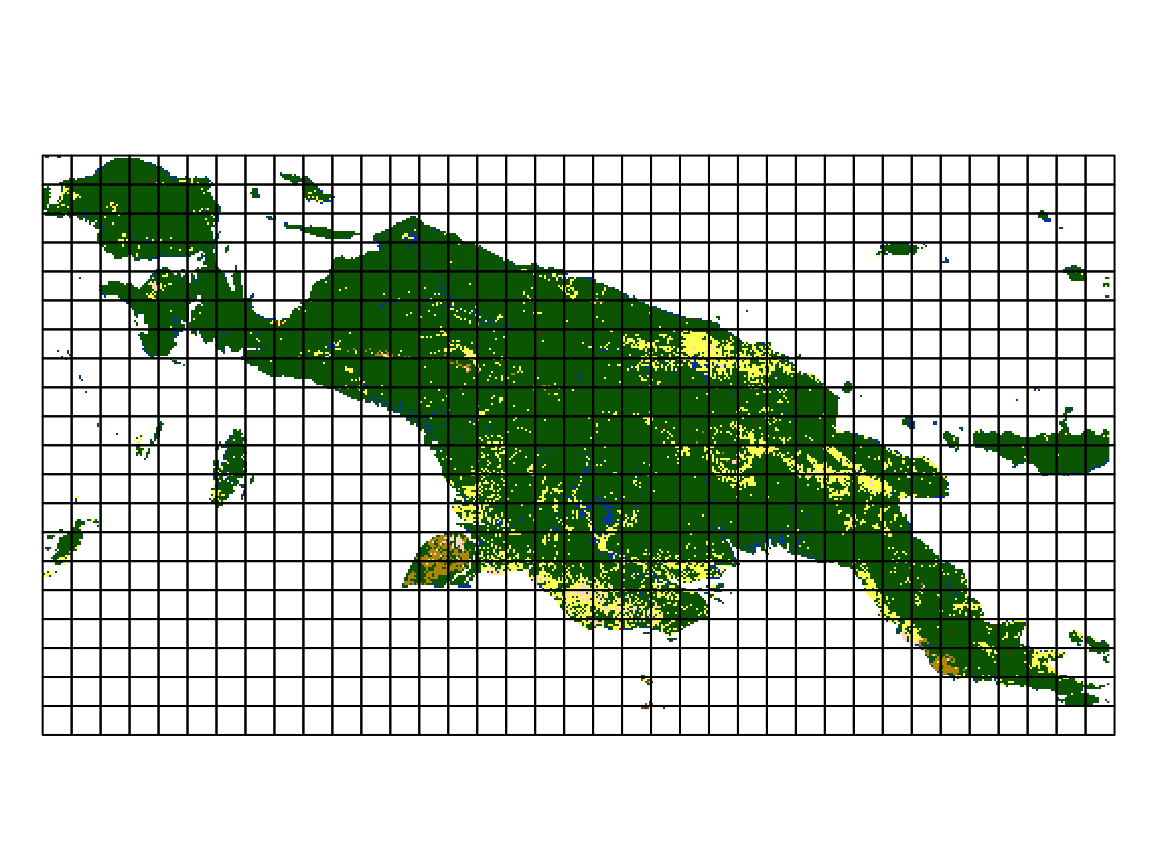
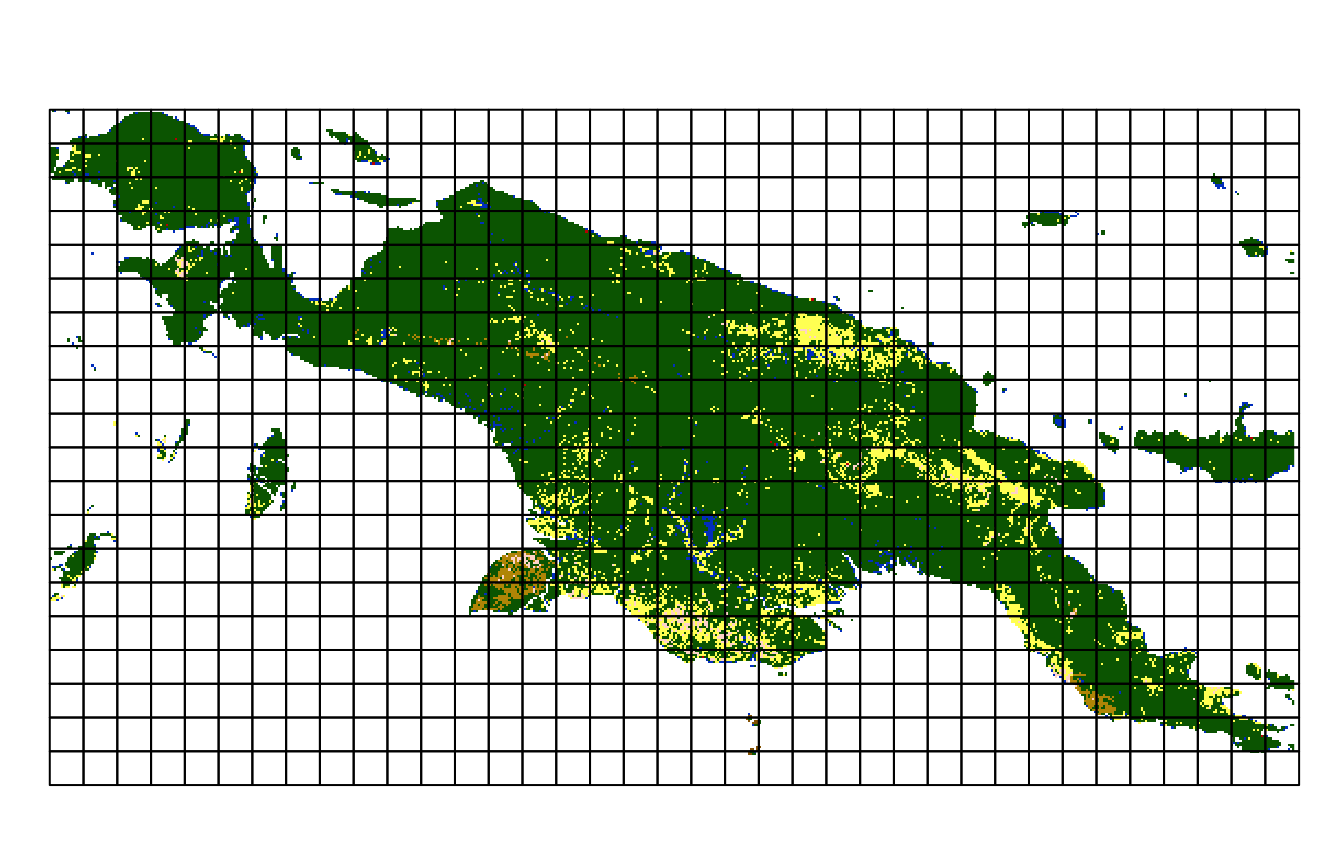
Built site for motif: 0.3.2@3800db7

Changed region(s): [[0.0312, 0.1249, 0.9688, 0.9052]]

diff --git a/articles/intro.html b/articles/intro.html
@@ -104,22 +104,25 @@
 
     
     
-<div class="sourceCode" id="cb1"><html><body><pre class="r"><span class="fu"><a href="https://rdrr.io/r/base/library.html">library</a></span>(<span class="no">motif</span>)</pre></body></html></div>
+<p>The <strong>motif</strong> package implements ideas of the pattern-based spatial analysis in R. It describes spatial patterns of categorical raster data for any defined regular and irregular areas. Patterns are represented quantitatively using built-in signatures based on co-occurrence matrices but also allows for any user-defined functions. It enables spatial analysis such as search, change detection, and clustering to be performed on spatial patterns.</p>
 <p>The <strong>motif</strong> package works on raster data represented by <code>stars</code> objects. It has several example datasets, including <code>"raster/landcover2015.tif"</code>. This file contains a land cover data for New Guinea, with seven possible categories: (1) agriculture, (2) forest, (3) grassland, (5) settlement, (6) shrubland, (7) sparse vegetation, and (9) water.</p>
-<div class="sourceCode" id="cb2"><html><body><pre class="r"><span class="fu"><a href="https://rdrr.io/r/base/library.html">library</a></span>(<span class="no">motif</span>)
+<div class="sourceCode" id="cb1"><html><body><pre class="r"><span class="fu"><a href="https://rdrr.io/r/base/library.html">library</a></span>(<span class="no">motif</span>)
 <span class="fu"><a href="https://rdrr.io/r/base/library.html">library</a></span>(<span class="no">stars</span>)
 <span class="co">#&gt; Loading required package: abind</span>
 <span class="co">#&gt; Loading required package: sf</span>
 <span class="co">#&gt; Linking to GEOS 3.8.1, GDAL 2.4.4, PROJ 7.0.0</span>
 <span class="fu"><a href="https://rdrr.io/r/base/library.html">library</a></span>(<span class="no">sf</span>)
 <span class="no">landcover</span> <span class="kw">=</span> <span class="fu"><a href="https://rdrr.io/pkg/stars/man/read_stars.html">read_stars</a></span>(<span class="fu"><a href="https://rdrr.io/r/base/system.file.html">system.file</a></span>(<span class="st">"raster/landcover2015.tif"</span>, <span class="kw">package</span> <span class="kw">=</span> <span class="st">"motif"</span>))</pre></body></html></div>
-<p><img src="intro_files/figure-html/unnamed-chunk-3-1.png" width="576"></p>
+<p><img src="intro_files/figure-html/unnamed-chunk-3-1.png" width="672"></p>
 <div id="signatures" class="section level2">
 <h2 class="hasAnchor">
 <a href="#signatures" class="anchor"></a>Signatures</h2>
+<div id="whole-area" class="section level3">
+<h3 class="hasAnchor">
+<a href="#whole-area" class="anchor"></a>Whole area</h3>
 <p>We can see that most of the island is covered by forest, with some agriculture and smaller areas of the other classes. It is also reasonably easy to describe these proportions (so-called composition) numerically - we just need to count cells of each category for the whole data.</p>
 <p>We can use the <code><a href="../reference/lsp_thumbprint.html">lsp_thumbprint()</a></code> function for this. It requires a <code>stars</code> object as the first input and the type of a signature to calculate - <code>"composition"</code> in this case. There are also several additional arguments, including <code>threshold</code> - a share (between 0 and 1) of NA cells to allow signature calculation and <code>normalization</code> - decision if the output vector should be normalized.</p>
-<div class="sourceCode" id="cb3"><html><body><pre class="r"><span class="no">landcover_comp</span> <span class="kw">=</span> <span class="fu"><a href="../reference/lsp_thumbprint.html">lsp_thumbprint</a></span>(<span class="no">landcover</span>,
+<div class="sourceCode" id="cb2"><html><body><pre class="r"><span class="no">landcover_comp</span> <span class="kw">=</span> <span class="fu"><a href="../reference/lsp_thumbprint.html">lsp_thumbprint</a></span>(<span class="no">landcover</span>,
                                 <span class="kw">type</span> <span class="kw">=</span> <span class="st">"composition"</span>,
                                 <span class="kw">threshold</span> <span class="kw">=</span> <span class="fl">1</span>,
                                 <span class="kw">normalization</span> <span class="kw">=</span> <span class="st">"none"</span>)
@@ -128,7 +131,7 @@
 <span class="co">#&gt;      id na_prop signature        </span>
 <span class="co">#&gt; * &lt;int&gt;   &lt;dbl&gt; &lt;list&gt;           </span>
 <span class="co">#&gt; 1     1   0.666 &lt;int[,7] [1 × 7]&gt;</span></pre></body></html></div>
-<p>The output of <code><a href="../reference/lsp_thumbprint.html">lsp_thumbprint()</a></code> has a new class <code>lsp</code>. It is a tibble with three columns:</p>
+<p>The output of <code><a href="../reference/lsp_thumbprint.html">lsp_thumbprint()</a></code>, <code>landcover_comp</code>, has a new class <code>lsp</code>. It is a tibble with three columns:</p>
 <ul>
 <li>
 <code>id</code> - an id of each window (area)</li>
@@ -138,7 +141,7 @@
 <code>signature</code> - a list-column containing with calculated signatures</li>
 </ul>
 <p>We can take a look at the last column:</p>
-<div class="sourceCode" id="cb4"><html><body><pre class="r"><span class="no">landcover_comp</span>$<span class="no">signature</span>
+<div class="sourceCode" id="cb3"><html><body><pre class="r"><span class="no">landcover_comp</span>$<span class="no">signature</span>
 <span class="co">#&gt; [[1]]</span>
 <span class="co">#&gt;           1       2     3    4    5     6      7</span>
 <span class="co">#&gt; [1,] 862001 8122776 84482 4311 2677 78555 203444</span></pre></body></html></div>
@@ -147,10 +150,14 @@
 <!-- We can try to... -->
 <!-- ... -->
 <!-- ... -->
-<p>Another approach would be to divide this large area into many regular rectangles (we refer to them as local landscapes) and to calculate a signature in each of them. The previously used signature, <code>"composition"</code> has one important flaw though. It only describes how many cells of each category we have. However, it does not distinguish an area with the left half of forest and right half of agriculture from an area with forest mixed with agriculture (think of a checkerboard). Gladly, several more types of signatures exist. It includes a co-occurrence matrix (<code>type = "coma"</code>). <code>"coma"</code> goes to each cell, looks at its value, looks at the values of its neighbors and counts how many neighbors of each class our central cell has.</p>
-<p><img src="intro_files/figure-html/unnamed-chunk-6-1.png" width="576"></p>
-<p>This time, we set the <code>window</code> argument to <code>200</code>, which means that each local landscape will consist of 200 by 200 cell. In this example, each cell has a resolution of 300 by 300 meters, therefore a local landscape will be 60000 by 60000 meters.</p>
-<div class="sourceCode" id="cb5"><html><body><pre class="r"><span class="no">landcover_coma</span> <span class="kw">=</span> <span class="fu"><a href="../reference/lsp_thumbprint.html">lsp_thumbprint</a></span>(<span class="no">landcover</span>, <span class="kw">type</span> <span class="kw">=</span> <span class="st">"coma"</span>, <span class="kw">window</span> <span class="kw">=</span> <span class="fl">200</span>)
+</div>
+<div id="regular-local-landscapes" class="section level3">
+<h3 class="hasAnchor">
+<a href="#regular-local-landscapes" class="anchor"></a>Regular local landscapes</h3>
+<p>Another approach would be to divide this large area into many regular rectangles (we refer to them as local landscapes) and to calculate a signature in each of them. The previously used signature, <code>"composition"</code> has one important flaw though. It only describes how many cells of each category we have. However, it does not distinguish an area with the left half of forest and right half of agriculture from an area with forest mixed with agriculture (think of a green-yellow checkerboard). Gladly, several more types of signatures do exist. It includes a co-occurrence matrix (<code>type = "coma"</code>). <code>"coma"</code> goes to each cell, looks at its value, looks at the values of its neighbors and counts how many neighbors of each class our central cell has.</p>
+<p><img src="intro_files/figure-html/unnamed-chunk-6-1.png" width="672"></p>
+<p>This time, we set the <code>window</code> argument to <code>200</code>, which means that each local landscape will consist of 200 by 200 cells. In this example, each cell has a resolution of 300 by 300 meters, therefore a local landscape will be 60000 by 60000 meters (60 by 60 kilometers).</p>
+<div class="sourceCode" id="cb4"><html><body><pre class="r"><span class="no">landcover_coma</span> <span class="kw">=</span> <span class="fu"><a href="../reference/lsp_thumbprint.html">lsp_thumbprint</a></span>(<span class="no">landcover</span>, <span class="kw">type</span> <span class="kw">=</span> <span class="st">"coma"</span>, <span class="kw">window</span> <span class="kw">=</span> <span class="fl">200</span>)
 <span class="no">landcover_coma</span>
 <span class="co">#&gt; # A tibble: 232 x 3</span>
 <span class="co">#&gt;       id na_prop signature        </span>
@@ -167,7 +174,7 @@
 <span class="co">#&gt; 10    78  0      &lt;int[,7] [7 × 7]&gt;</span>
 <span class="co">#&gt; # … with 222 more rows</span></pre></body></html></div>
 <p>Now, we have one row per local landscape, where each local landscape is described by an id (<code>id</code>), the proportion of cells with <code>NA</code>s (<code>na_prop</code>), and a signature (<code>signature</code>). For example, the first signature looks like this:</p>
-<div class="sourceCode" id="cb6"><html><body><pre class="r"><span class="no">landcover_coma</span>$<span class="no">signature</span><span class="kw">[[</span><span class="fl">1</span>]]
+<div class="sourceCode" id="cb5"><html><body><pre class="r"><span class="no">landcover_coma</span>$<span class="no">signature</span><span class="kw">[[</span><span class="fl">1</span>]]
 <span class="co">#&gt;    1      2 3 4 5 6    7</span>
 <span class="co">#&gt; 1 32     47 0 2 0 0    6</span>
 <span class="co">#&gt; 2 47 141250 0 7 0 0  226</span>
@@ -177,10 +184,16 @@
 <span class="co">#&gt; 6  0      0 0 0 0 0    0</span>
 <span class="co">#&gt; 7  6    226 0 0 0 0 1462</span></pre></body></html></div>
 <p>It is a matrix where each row and column represent subsequent land cover classes. For example, 141250 times forest cell is next to anther forest cell, and 226 times water cell is next to forest cell. You can learn more about this signature at <a href="https://nowosad.github.io/comat/articles/coma.html" class="uri">https://nowosad.github.io/comat/articles/coma.html</a>. Additional signatures are described in the <a href="https://nowosad.github.io/motif/articles/articles/signatures.html">Spatial patterns’ signatures</a> vignette.</p>
-<p>The <strong>motif</strong> package also allows using irregular regions based on the user-provided polygons.</p>
-<div class="sourceCode" id="cb7"><html><body><pre class="r"><span class="no">ecoregions</span> <span class="kw">=</span> <span class="fu"><a href="https://rdrr.io/pkg/sf/man/st_read.html">read_sf</a></span>(<span class="fu"><a href="https://rdrr.io/r/base/system.file.html">system.file</a></span>(<span class="st">"vector/ecoregions.gpkg"</span>, <span class="kw">package</span> <span class="kw">=</span> <span class="st">"motif"</span>))</pre></body></html></div>
-<p><img src="intro_files/figure-html/unnamed-chunk-10-1.png" width="576"></p>
-<div class="sourceCode" id="cb8"><html><body><pre class="r"><span class="no">landcover_coma_e</span> <span class="kw">=</span> <span class="fu"><a href="../reference/lsp_thumbprint.html">lsp_thumbprint</a></span>(<span class="no">landcover</span>, <span class="kw">type</span> <span class="kw">=</span> <span class="st">"coma"</span>, <span class="kw">window</span> <span class="kw">=</span> <span class="no">ecoregions</span>[<span class="st">"id"</span>])
+</div>
+<div id="irregular-local-landscapes" class="section level3">
+<h3 class="hasAnchor">
+<a href="#irregular-local-landscapes" class="anchor"></a>Irregular local landscapes</h3>
+<p>The <strong>motif</strong> package also allows using irregular regions based on the user-provided polygons. It has an example spatial vector dataset, <code>ecoregions.gpkg</code>, which contains terrestrial ecoregions for New Guinea from <a href="https://ecoregions2017.appspot.com/" class="uri">https://ecoregions2017.appspot.com/</a>.</p>
+<div class="sourceCode" id="cb6"><html><body><pre class="r"><span class="no">ecoregions</span> <span class="kw">=</span> <span class="fu"><a href="https://rdrr.io/pkg/sf/man/st_read.html">read_sf</a></span>(<span class="fu"><a href="https://rdrr.io/r/base/system.file.html">system.file</a></span>(<span class="st">"vector/ecoregions.gpkg"</span>, <span class="kw">package</span> <span class="kw">=</span> <span class="st">"motif"</span>))</pre></body></html></div>
+<p>This dataset has 22 rows, where each row relates to one ecoregion. Each ecoregion is also related to a unique value in the <code>id</code> column.</p>
+<p><img src="intro_files/figure-html/unnamed-chunk-10-1.png" width="672"></p>
+<p>Now, we need to provide this dataset and its identity column to the <code>window</code> argument of <code><a href="../reference/lsp_thumbprint.html">lsp_thumbprint()</a></code>.</p>
+<div class="sourceCode" id="cb7"><html><body><pre class="r"><span class="no">landcover_coma_e</span> <span class="kw">=</span> <span class="fu"><a href="../reference/lsp_thumbprint.html">lsp_thumbprint</a></span>(<span class="no">landcover</span>, <span class="kw">type</span> <span class="kw">=</span> <span class="st">"coma"</span>, <span class="kw">window</span> <span class="kw">=</span> <span class="no">ecoregions</span>[<span class="st">"id"</span>])
 <span class="no">landcover_coma_e</span>
 <span class="co">#&gt; # A tibble: 22 x 3</span>
 <span class="co">#&gt;       id na_prop signature        </span>
@@ -196,7 +209,25 @@
 <span class="co">#&gt;  9     9 0.0508  &lt;int[,7] [7 × 7]&gt;</span>
 <span class="co">#&gt; 10    10 0       &lt;int[,7] [7 × 7]&gt;</span>
 <span class="co">#&gt; # … with 12 more rows</span></pre></body></html></div>
-<!-- ADD INFO ABOUT STARS PROXY -->
+<p>The output, <code>landcover_coma_e</code>, is also of the <code>lsp</code> class and contains three columns. The first column, <code>id</code>, has the same values as provided in the <code>window</code> argument above. The third column, <code>signature</code>, has a spatial signature for each polygon in the <code>ecoregions</code> dataset.</p>
+<div class="sourceCode" id="cb8"><html><body><pre class="r"><span class="no">landcover_coma_e</span>$<span class="no">signature</span><span class="kw">[[</span><span class="fl">1</span>]]
+<span class="co">#&gt;     1     2 3  4 5 6    7</span>
+<span class="co">#&gt; 1 662   752 0  1 0 0   13</span>
+<span class="co">#&gt; 2 752 70974 0  6 0 0  427</span>
+<span class="co">#&gt; 3   0     0 0  0 0 0    0</span>
+<span class="co">#&gt; 4   1     6 0 12 0 0    4</span>
+<span class="co">#&gt; 5   0     0 0  0 0 0    0</span>
+<span class="co">#&gt; 6   0     0 0  0 0 0    0</span>
+<span class="co">#&gt; 7  13   427 0  4 0 0 1560</span></pre></body></html></div>
+</div>
+</div>
+<div id="large-data-support" class="section level2">
+<h2 class="hasAnchor">
+<a href="#large-data-support" class="anchor"></a>Large data support</h2>
+<p>The <strong>motif</strong> package also supports large raster datasets, including rasters that do not fit into the RAM. It just requres reading the input data as a <code>stars.proxy</code> by adding <code>proxy = TRUE</code> to the <code><a href="https://rdrr.io/pkg/stars/man/read_stars.html">read_stars()</a></code> function:</p>
+<div class="sourceCode" id="cb9"><html><body><pre class="r"><span class="no">landcover_proxy</span> <span class="kw">=</span> <span class="fu"><a href="https://rdrr.io/pkg/stars/man/read_stars.html">read_stars</a></span>(<span class="fu"><a href="https://rdrr.io/r/base/system.file.html">system.file</a></span>(<span class="st">"raster/landcover2015.tif"</span>, <span class="kw">package</span> <span class="kw">=</span> <span class="st">"motif"</span>),
+                             <span class="kw">proxy</span> <span class="kw">=</span> <span class="fl">TRUE</span>)</pre></body></html></div>
+<p>The rest of the calculations are the same as above.</p>
 </div>
 <div id="applications" class="section level2">
 <h2 class="hasAnchor">

diff --git a/articles/articles/compare.html b/articles/articles/compare.html
@@ -97,7 +97,7 @@
       <h1 data-toc-skip>Compare</h1>
                         <h4 class="author">Jakub Nowosad</h4>
             
-            <h4 class="date">2020-03-26</h4>
+            <h4 class="date">2020-03-27</h4>
       
       <small class="dont-index">Source: <a href="https://github.com/Nowosad/motif/blob/master/vignettes/articles/compare.Rmd"><code>vignettes/articles/compare.Rmd</code></a></small>
       <div class="hidden name"><code>compare.Rmd</code></div>

diff --git a/articles/articles/search.html b/articles/articles/search.html
@@ -97,7 +97,7 @@
       <h1 data-toc-skip>Search</h1>
                         <h4 class="author">Jakub Nowosad</h4>
             
-            <h4 class="date">2020-03-26</h4>
+            <h4 class="date">2020-03-27</h4>
       
       <small class="dont-index">Source: <a href="https://github.com/Nowosad/motif/blob/master/vignettes/articles/search.Rmd"><code>vignettes/articles/search.Rmd</code></a></small>
       <div class="hidden name"><code>search.Rmd</code></div>

diff --git a/articles/articles/signatures.html b/articles/articles/signatures.html
@@ -96,7 +96,7 @@
     <div class="page-header toc-ignore">
       <h1 data-toc-skip>Signatures</h1>
             
-            <h4 class="date">2020-03-26</h4>
+            <h4 class="date">2020-03-27</h4>
       
       <small class="dont-index">Source: <a href="https://github.com/Nowosad/motif/blob/master/vignettes/articles/signatures.Rmd"><code>vignettes/articles/signatures.Rmd</code></a></small>
       <div class="hidden name"><code>signatures.Rmd</code></div>

diff --git a/articles/articles/cluster.html b/articles/articles/cluster.html
@@ -96,7 +96,7 @@
     <div class="page-header toc-ignore">
       <h1 data-toc-skip>Cluster</h1>
             
-            <h4 class="date">2020-03-26</h4>
+            <h4 class="date">2020-03-27</h4>
       
       <small class="dont-index">Source: <a href="https://github.com/Nowosad/motif/blob/master/vignettes/articles/cluster.Rmd"><code>vignettes/articles/cluster.Rmd</code></a></small>
       <div class="hidden name"><code>cluster.Rmd</code></div>
